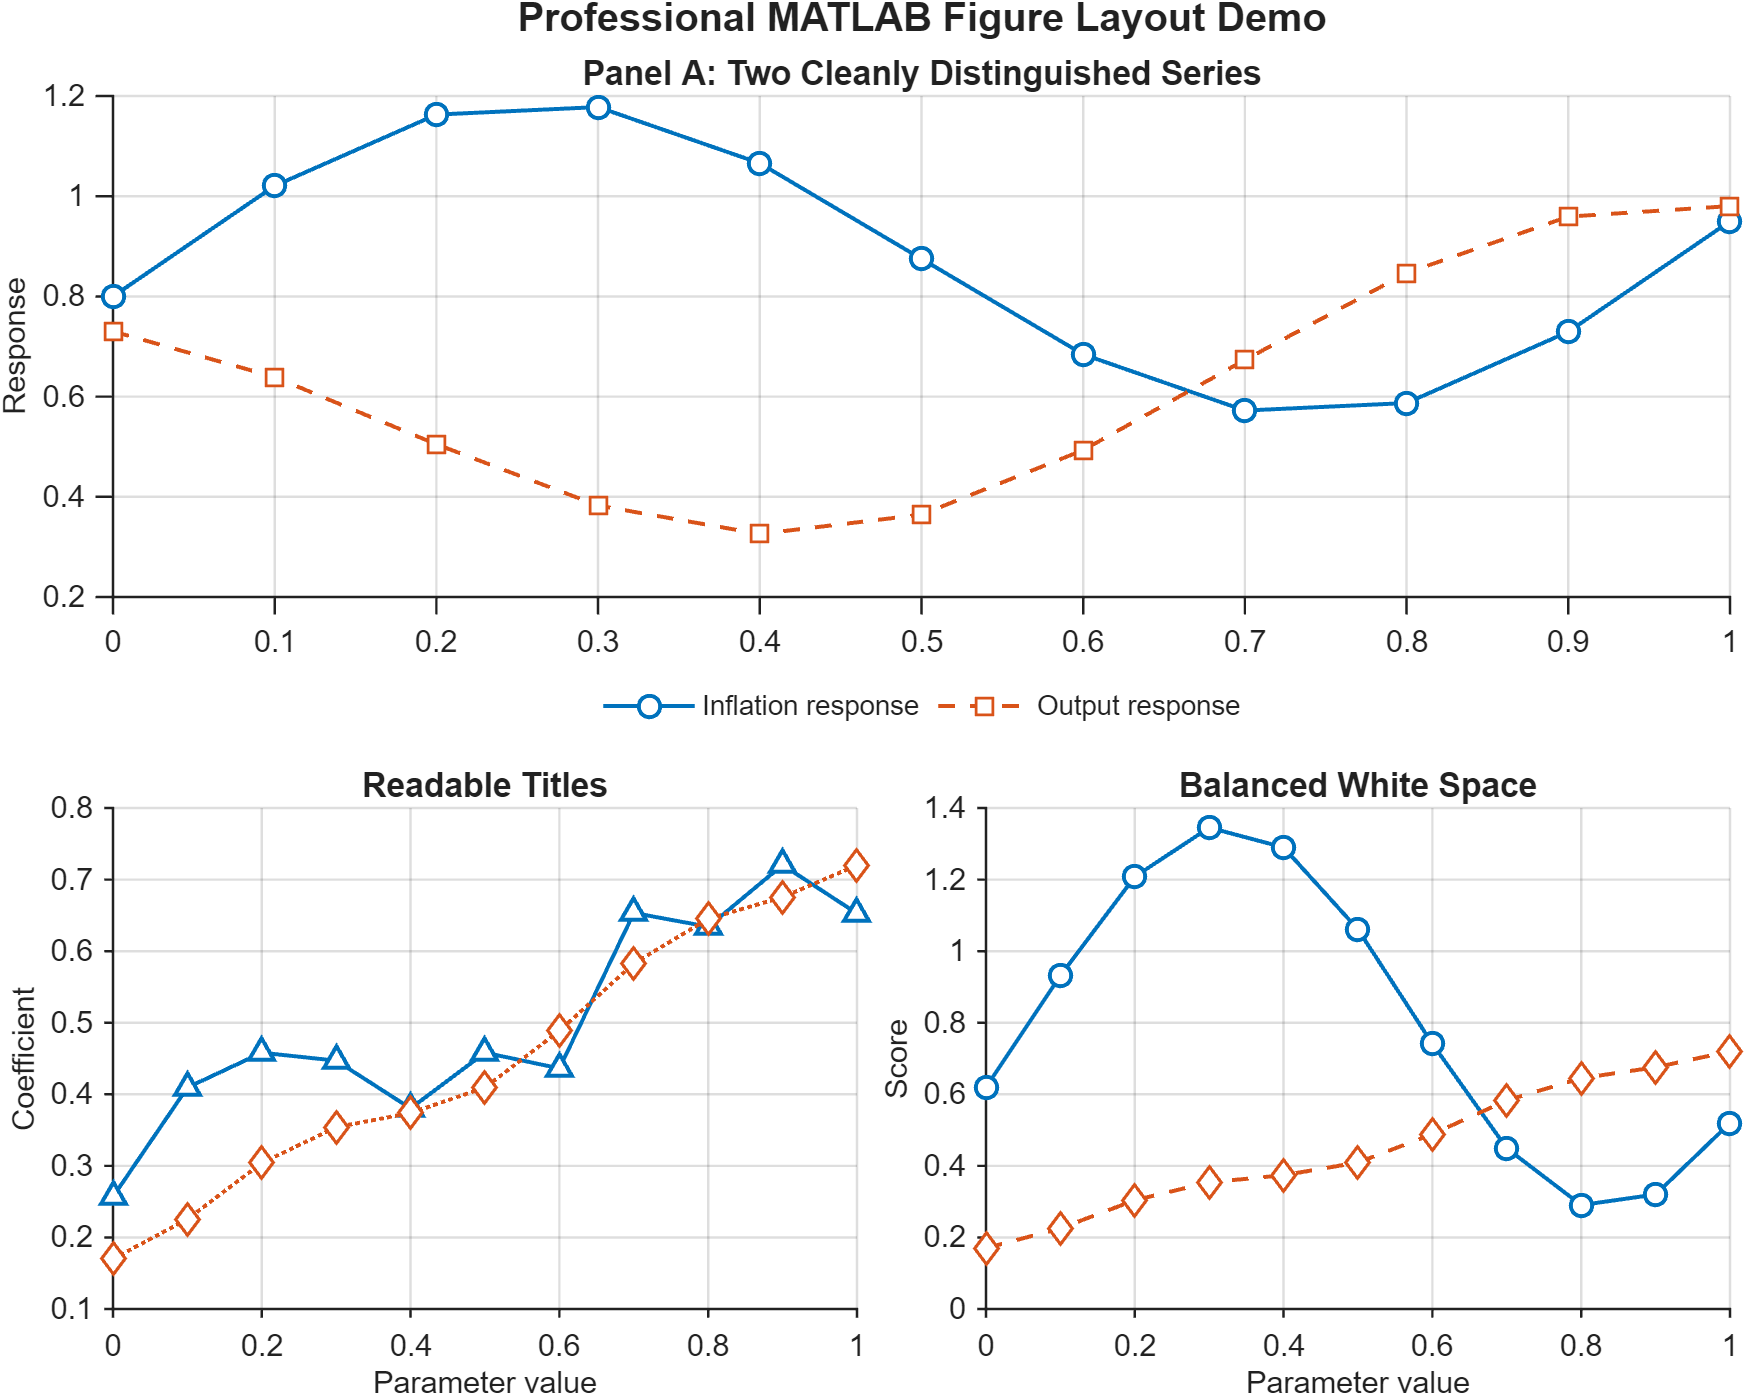
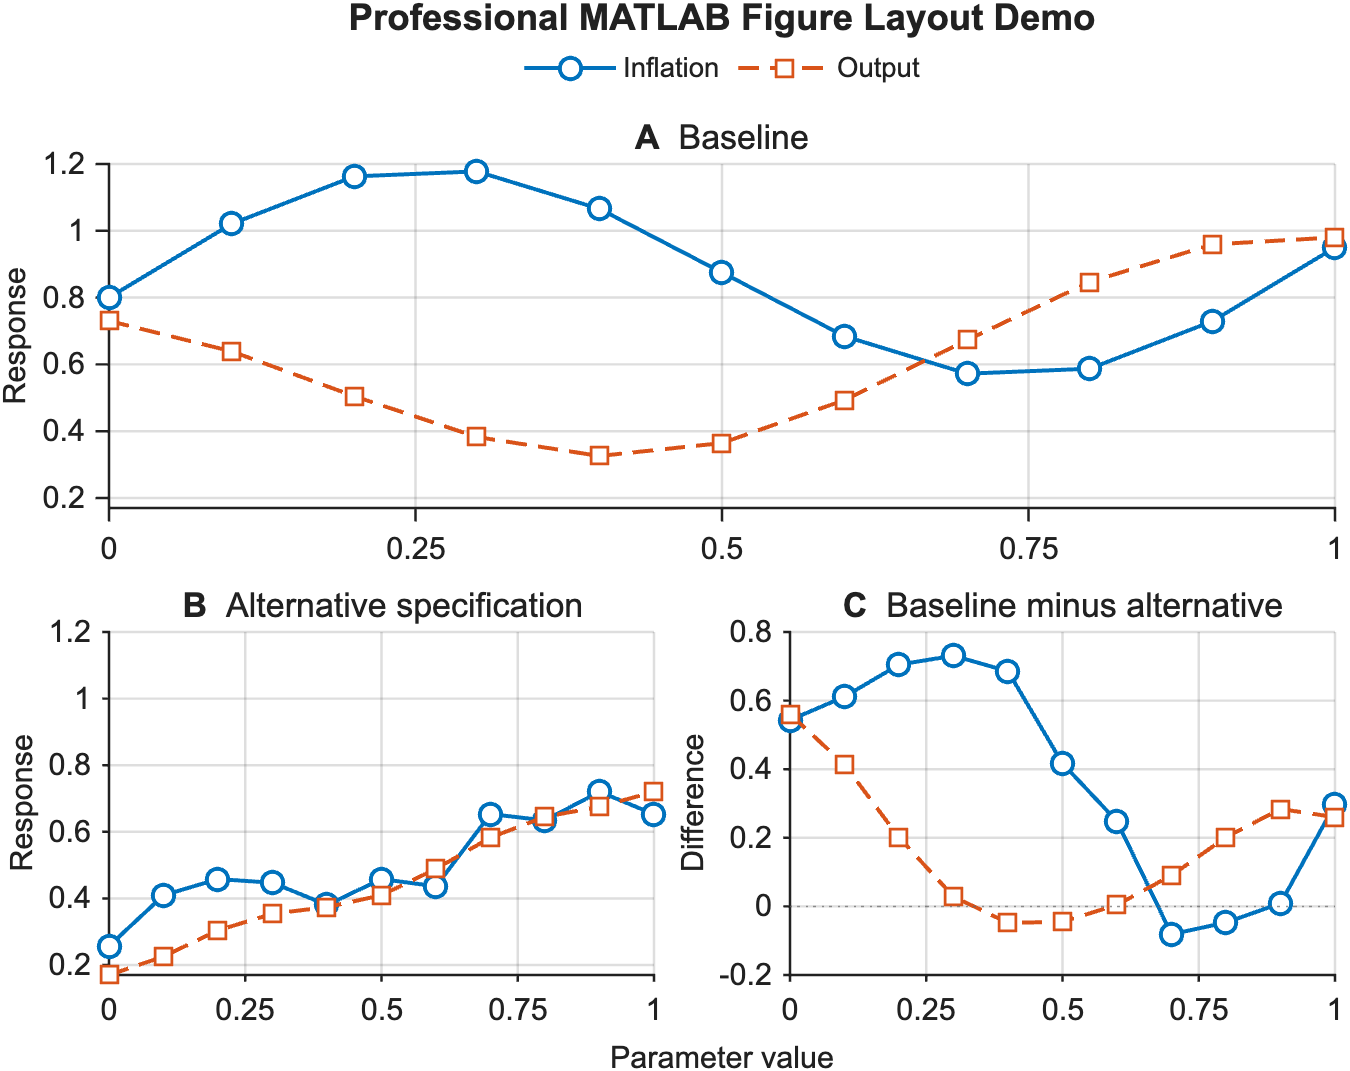
Make the demo follow its own guidance and regenerate the hero image
- Export at the final 6.5 x 5 in size instead of 8.4 in, so 10 pt text
  lands at 10 pt on a 6.5 in text width.
- Map one color to one concept (inflation blue, output orange) in every
  panel, with one shared legend docked to the layout and a shared x label.
- Label panels A-C and use the same x ticks in every panel.
- Set spacing once in tiledlayout instead of 'loose' then 'compact'.
- Regenerate examples/output/demo_publication_figure.png with the 0.2.0
  helper on MATLAB R2026a (the PDF embeds only Arial).
- Describe the demo's choices in examples/README.md.

diff --git a/examples/demo_publication_figure.m b/examples/demo_publication_figure.m
@@ -6,61 +6,67 @@ end
 rng(42);
 x = linspace(0, 1, 11);
 
-y1 = 0.8 + 0.35 * sin(2 * pi * x) + 0.15 * x;
-y2 = 0.5 + 0.25 * cos(2 * pi * x + 0.4) + 0.25 * x .^ 1.4;
-y3 = 0.3 + 0.4 * x + 0.08 * randn(size(x));
-y4 = 0.2 + 0.55 * x .^ 1.2 - 0.03 * cos(4 * pi * x);
-
-fig = figure('Color', 'white', 'Units', 'inches', 'Position', [1 1 8.4 6.5]);
-outer = tiledlayout(fig, 2, 2, 'TileSpacing', 'loose', 'Padding', 'compact');
+% Two concepts, one color each, in every panel.
+inflationBaseline = 0.8 + 0.35 * sin(2 * pi * x) + 0.15 * x;
+outputBaseline = 0.5 + 0.25 * cos(2 * pi * x + 0.4) + 0.25 * x .^ 1.4;
+inflationAlternative = 0.3 + 0.4 * x + 0.08 * randn(size(x));
+outputAlternative = 0.2 + 0.55 * x .^ 1.2 - 0.03 * cos(4 * pi * x);
 
 colorInflation = [0.000, 0.447, 0.741];
 colorOutput = [0.850, 0.325, 0.098];
 
+% Final printed size: full text width (6.5 in) of a 1-in-margin letter page.
+widthInches = 6.5;
+heightInches = 5.0;
+
+fig = figure('Color', 'white', 'Units', 'inches', ...
+    'Position', [1 1 widthInches heightInches]);
+outer = tiledlayout(fig, 2, 2, 'TileSpacing', 'compact', 'Padding', 'compact');
+
 title(outer, 'Professional MATLAB Figure Layout Demo', ...
-    'FontWeight', 'bold', 'FontSize', 13);
+    'FontWeight', 'bold', 'FontSize', 12);
+xlabel(outer, 'Parameter value');
 
 ax1 = nexttile(outer, [1 2]);
-hold(ax1, 'on');
-grid(ax1, 'on');
-plot(ax1, x, y1, '-o', 'Color', colorInflation, ...
-    'MarkerFaceColor', 'white', 'DisplayName', 'Inflation response');
-plot(ax1, x, y2, '--s', 'Color', colorOutput, ...
-    'MarkerFaceColor', 'white', 'DisplayName', 'Output response');
+plot_pair(ax1, x, inflationBaseline, outputBaseline, colorInflation, colorOutput);
 ylabel(ax1, 'Response');
-title(ax1, 'Panel A: Two Cleanly Distinguished Series');
-xlim(ax1, [0, 1]);
+title(ax1, '{\bfA}  Baseline');
 
-leftAx = nexttile(outer);
-hold(leftAx, 'on');
-grid(leftAx, 'on');
-plot(leftAx, x, y3, '-^', 'Color', colorInflation, ...
-    'MarkerFaceColor', 'white', 'DisplayName', 'Policy coefficient A');
-plot(leftAx, x, y4, ':d', 'Color', colorOutput, ...
-    'MarkerFaceColor', 'white', 'DisplayName', 'Policy coefficient B');
-title(leftAx, 'Readable Titles');
-xlabel(leftAx, 'Parameter value');
-ylabel(leftAx, 'Coefficient');
-xlim(leftAx, [0, 1]);
+ax2 = nexttile(outer);
+plot_pair(ax2, x, inflationAlternative, outputAlternative, colorInflation, colorOutput);
+ylabel(ax2, 'Response');
+title(ax2, '{\bfB}  Alternative specification');
 
-rightAx = nexttile(outer);
-hold(rightAx, 'on');
-grid(rightAx, 'on');
-plot(rightAx, x, y1 - y2 + 0.55, '-o', 'Color', colorInflation, ...
-    'MarkerFaceColor', 'white', 'DisplayName', 'Layout quality');
-plot(rightAx, x, y4, '--d', 'Color', colorOutput, ...
-    'MarkerFaceColor', 'white', 'DisplayName', 'Readability quality');
-title(rightAx, 'Balanced White Space');
-ylabel(rightAx, 'Score');
-xlabel(rightAx, 'Parameter value');
-xlim(rightAx, [0, 1]);
+ax3 = nexttile(outer);
+plot_pair(ax3, x, inflationBaseline - inflationAlternative, ...
+    outputBaseline - outputAlternative, colorInflation, colorOutput);
+yline(ax3, 0, ':', 'Color', [0.4 0.4 0.4], 'HandleVisibility', 'off');
+ylabel(ax3, 'Difference');
+title(ax3, '{\bfC}  Baseline minus alternative');
 
-legend(ax1, 'Location', 'southoutside', 'Orientation', 'horizontal', 'NumColumns', 2, 'Box', 'off');
+linkaxes([ax1, ax2], 'y');
+
+% One shared legend docked above all tiles (the shared x label sits below);
+% colors mean the same in every panel.
+lgd = legend(ax1, 'Orientation', 'horizontal');
+lgd.Layout.Tile = 'north';
 
 addpath(fullfile(fileparts(mfilename('fullpath')), '..', 'matlab-plot-skill', 'scripts'));
 
 export_publication_figure(fig, fullfile(outputDir, 'demo_publication_figure.pdf'), ...
-    WidthInches=8.4, HeightInches=6.5, LayoutPadding="compact", TileSpacing="compact", ...
+    WidthInches=widthInches, HeightInches=heightInches, ...
     PreviewPath=fullfile(outputDir, 'demo_publication_figure.png'));
 
 close(fig);
+
+function plot_pair(ax, x, inflation, output, colorInflation, colorOutput)
+% Inflation is always blue circles and output always orange squares.
+hold(ax, 'on');
+grid(ax, 'on');
+plot(ax, x, inflation, '-o', 'Color', colorInflation, ...
+    'MarkerFaceColor', 'white', 'DisplayName', 'Inflation');
+plot(ax, x, output, '--s', 'Color', colorOutput, ...
+    'MarkerFaceColor', 'white', 'DisplayName', 'Output');
+xlim(ax, [0, 1]);
+xticks(ax, 0:0.25:1);
+end

diff --git a/examples/README.md b/examples/README.md
@@ -15,7 +15,9 @@ This generates:
 - `examples/output/demo_publication_figure.pdf`
 - `examples/output/demo_publication_figure.png`
 
-The PNG is for quick visual inspection. The PDF is the publication-style export for LaTeX or Overleaf. Only the PNG is committed to the repo; the PDF is produced locally. Regenerate the committed PNG whenever you change the demo.
+The PNG is for quick visual inspection. The PDF is the publication-style export for LaTeX or Overleaf. Only the PNG is committed to the repo; the PDF is produced locally. Regenerate the committed PNG whenever you change the demo or the export helper.
+
+The demo follows the skill's own rules: it exports at its final printed size (6.5 x 5 in, the text width of a 1-in-margin letter page) so LaTeX does no scaling, maps one color to one concept (inflation blue, output orange) in every panel, uses a single shared legend docked to the layout (`lgd.Layout.Tile = 'north'`) and a shared x label, and labels the panels A-C. Size and spacing are set once, in `figure`/`tiledlayout` and the helper's `WidthInches`/`HeightInches`; the helper keeps the layout spacing the demo chose.
 
 The point of the example is not the data. It demonstrates the workflow the skill should enforce:
 
